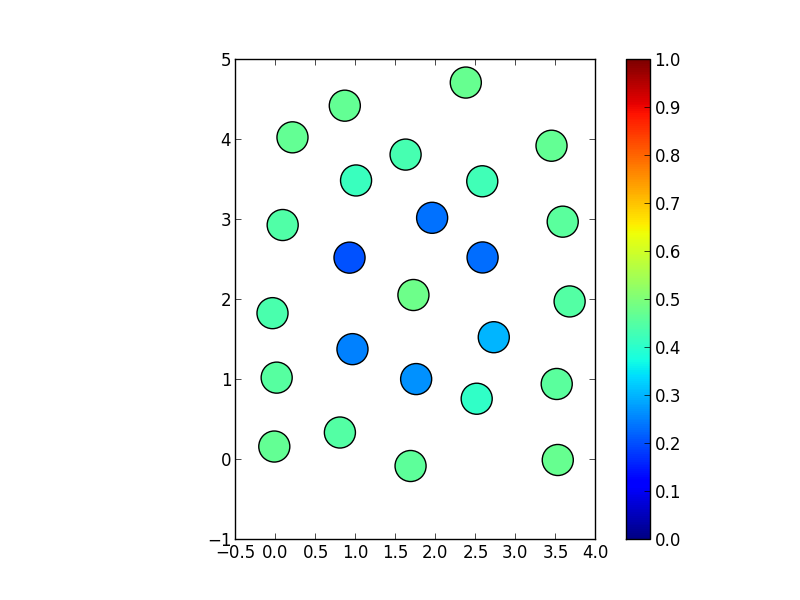
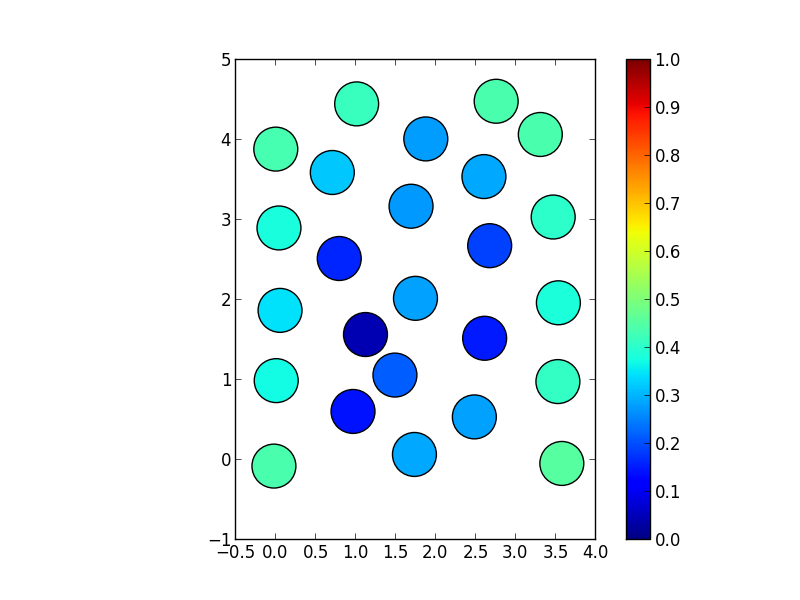
some signaling

diff --git a/omm.py b/omm.py
@@ -32,7 +32,11 @@ y_deg = 1.0
 
 ney = 2.0
 
-nmol = 1
+ny25 = 2.0
+ne25 = 2.0
+deg25 = 1.0
+
+nmol = 2
 xdim = 5
 ydim = 5
 
@@ -46,12 +50,12 @@ def f(y, t, nmol, triang):
     xprime = np.empty(c.shape)
 
     yan = c[0,:,:]
-    #R2_5 = c[1,:,:]
-
+    R2_5 = c[1,:,:]
+    egfr = sens + R2_5
     # rates of change for yan
-    xprime[0,:,:] = (1-hill(sig(sens,triang),1.0,ney)) * hill(t/N_y,1.0,nny) - y_deg * yan
+    xprime[0,:,:] = (1-hill(sig(egfr,triang),1.0,ney)) * hill(t/N_y,1.0,nny) - y_deg * yan
     # rates of change for R2_5
-    #xprime[1,:,:] = (1-hill(yan,1.0,ny25)) * rough * hill(sig(sens,triang),1.0,ns25) - deg25 * R2_5 
+    xprime[1,:,:] = (1-hill(yan,1.0,ny25)) * rough * hill(sig(egfr,triang),1.0,ne25) - deg25 * R2_5 
     
     
     return xprime.flatten()
@@ -82,7 +86,7 @@ plt.savefig("fig")
 sens = np.copy(initial[0])
 sens[2,2] = 1
 rough = np.copy(initial[0])
-rough[3,2],rough[1,2],rough[2,2] = 1,1,1
+rough[3,2],rough[1,2] = 1,1
 lz = np.ones((xdim,ydim))
 lz[3,2],lz[1,2],lz[2,2],lz[1,3],lz[2,3] = 0,0,0,0,0
 
@@ -99,7 +103,7 @@ resols = [np.reshape(i, [nmol,xdim,ydim]) for i in sol]
 
 #make a pretty plot of results, control the time point and molecule using 'c'
 plt.clf()
-plt.scatter(distlattice[1].flatten(), distlattice[0].flatten(), c = resols[60][0], vmin = 0, vmax = 1, s = 500)
+plt.scatter(distlattice[1].flatten(), distlattice[0].flatten(), c = resols[5][1], vmin = 0, vmax = 1, s = 1000)
 plt.axes().set_aspect('equal')
 plt.colorbar()
 plt.savefig("fig")

diff --git a/.#omm.py b/.#omm.py
@@ -1,0 +1,1 @@
+james@xanthos.6946
